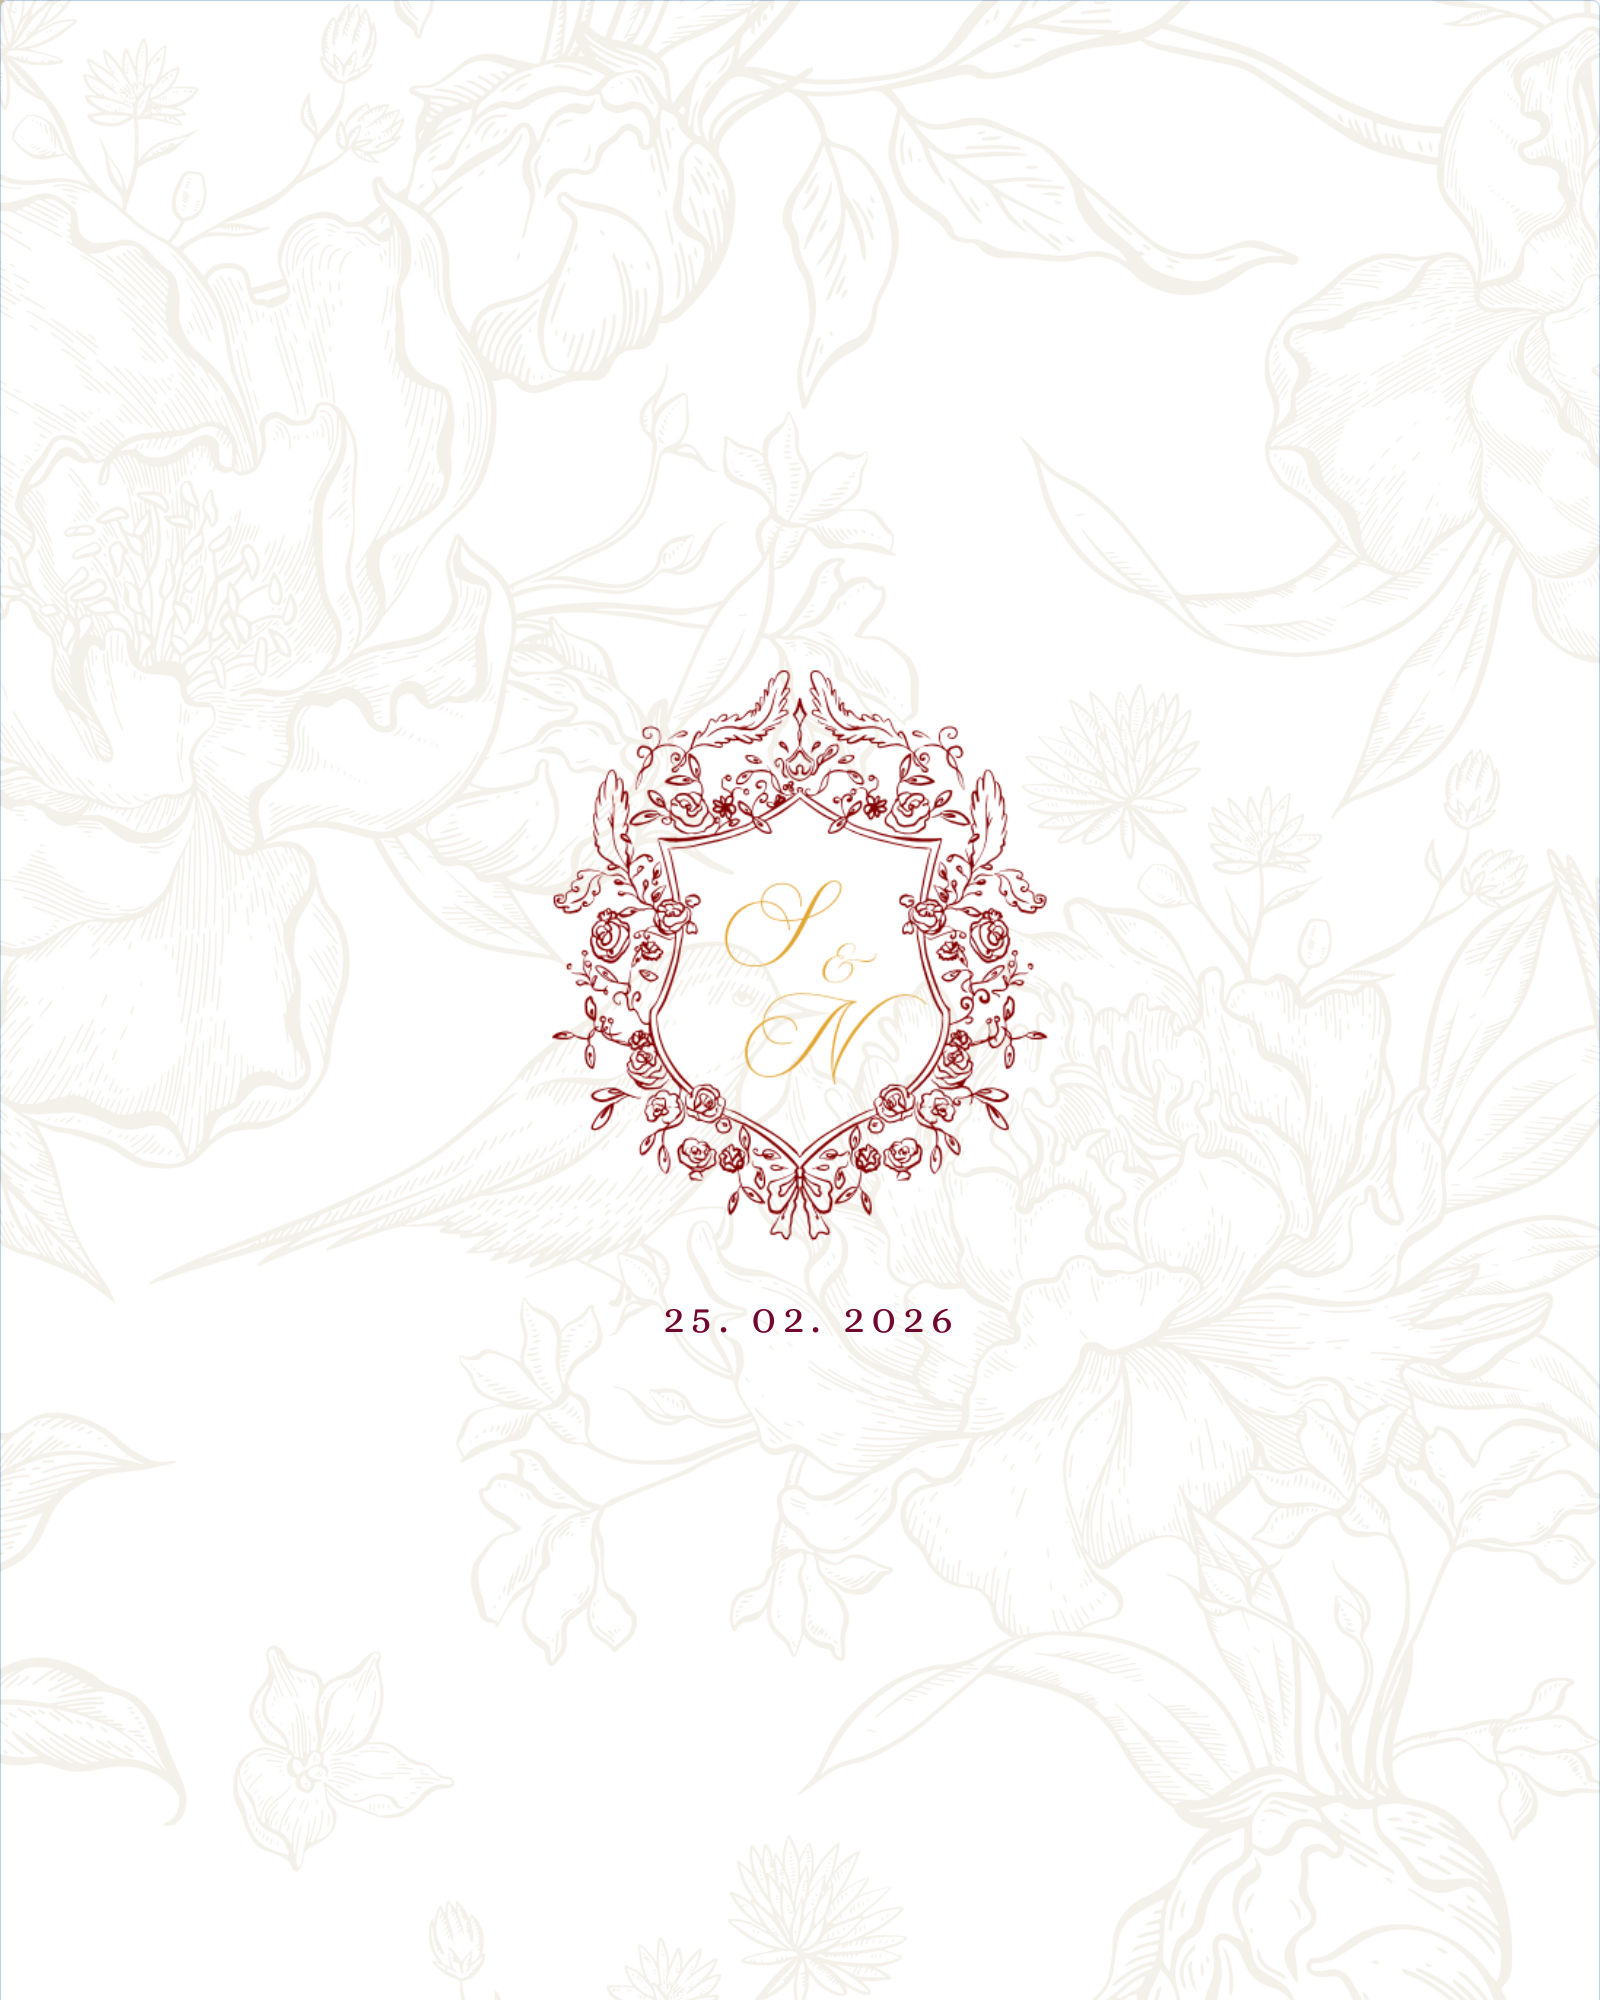
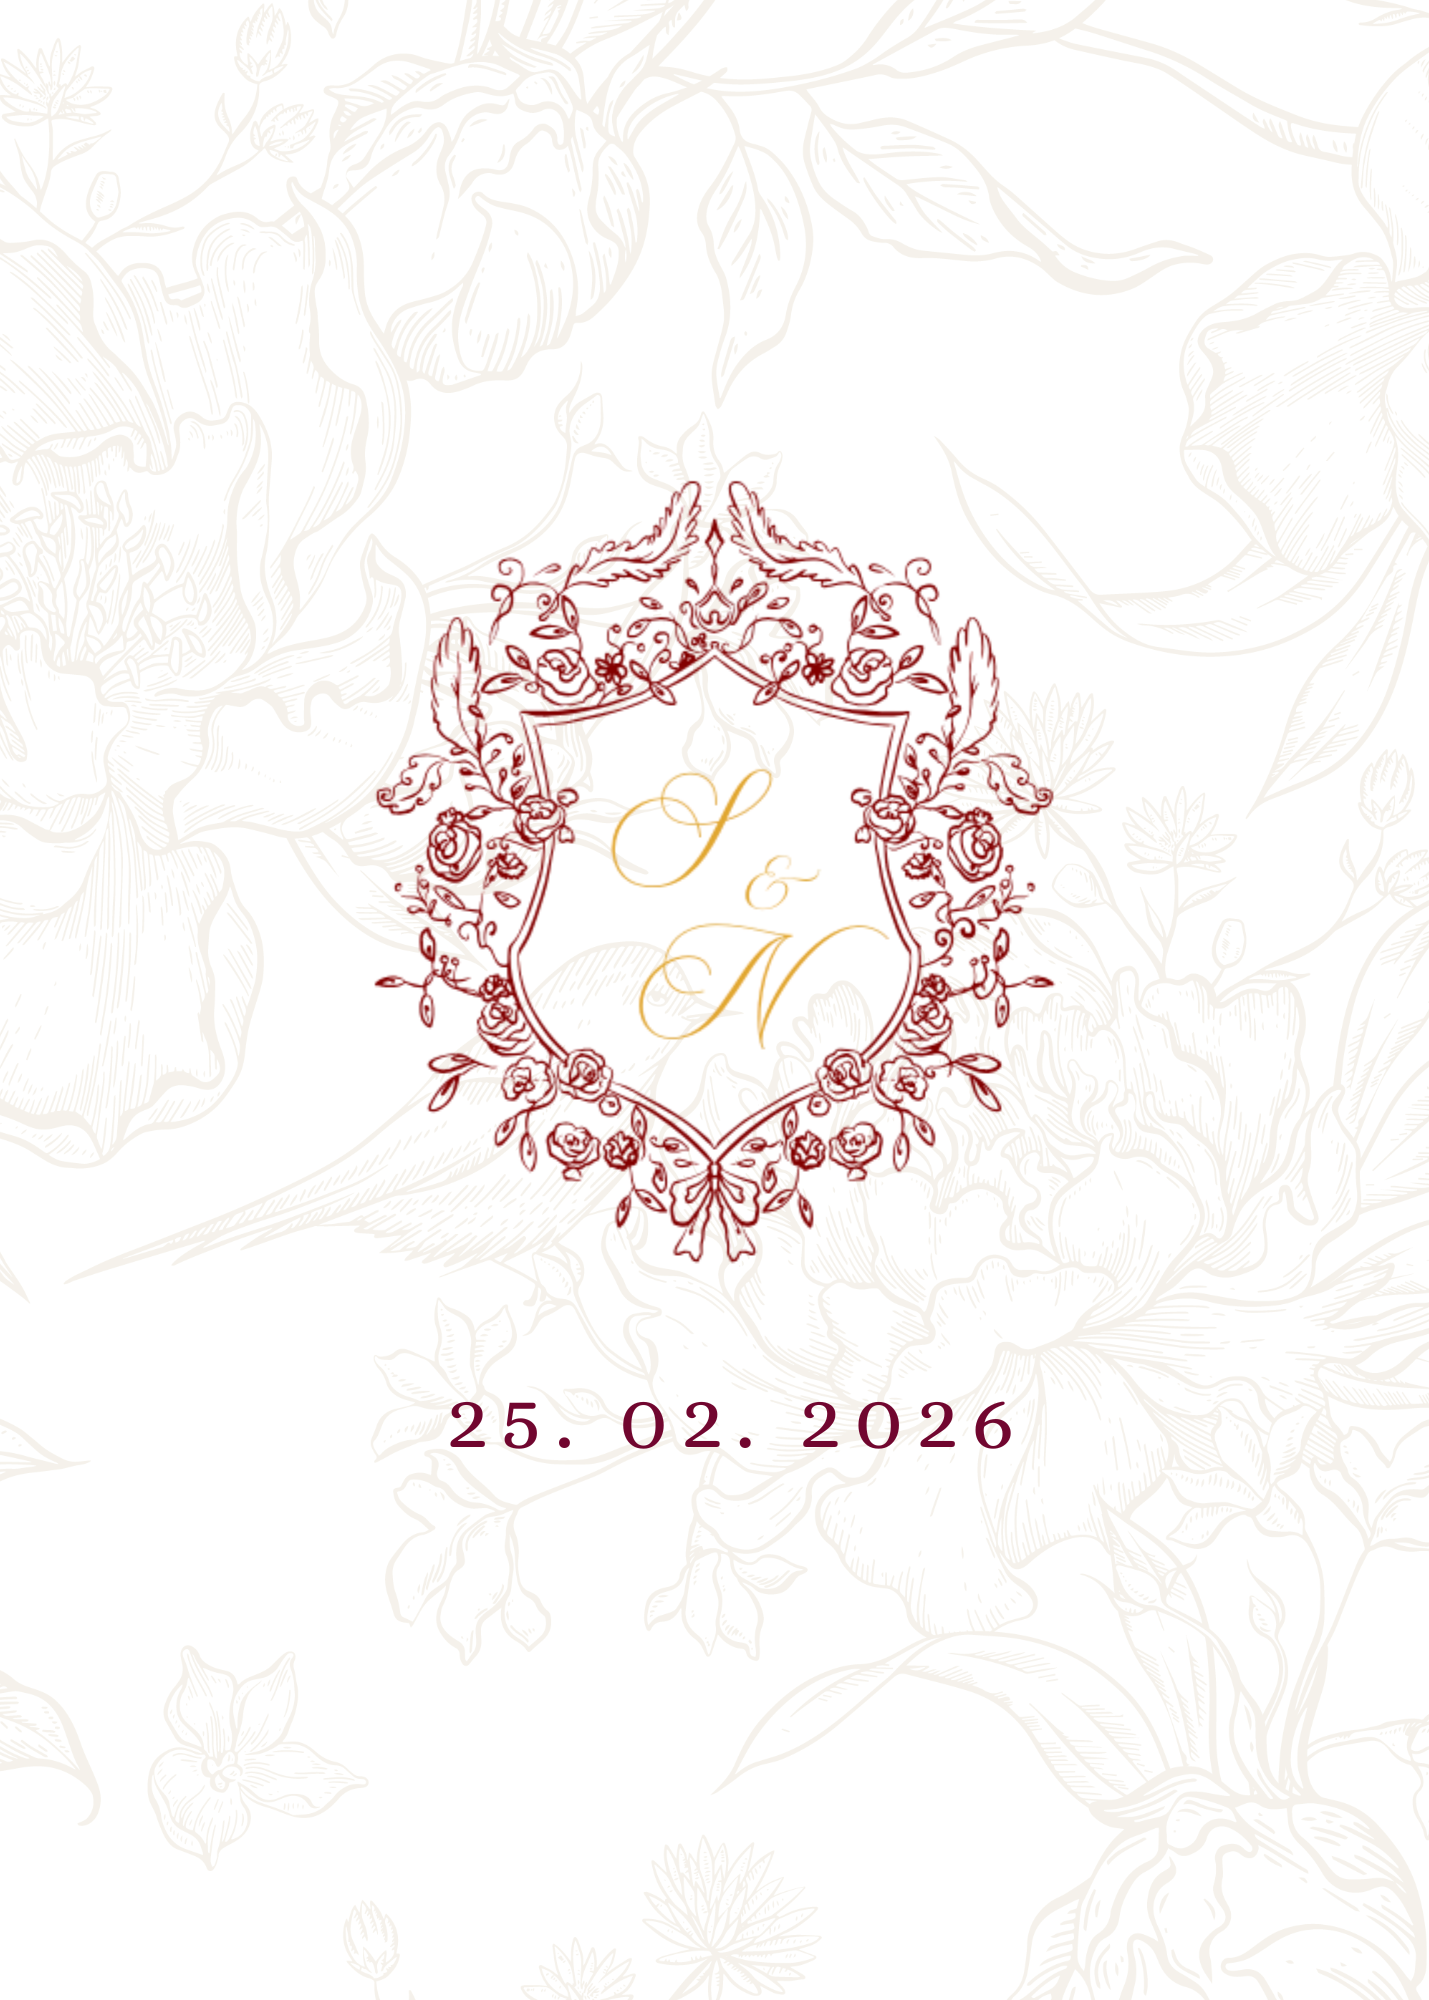
responsive

diff --git a/style.css b/style.css
@@ -8,7 +8,8 @@ html, body {
     margin: 0;
     padding: 0;
     width: 100%;
-    height: 100%;
+    height: 100vh;
+    height: 100dvh;
     overflow: hidden;
     background: white;
 }
@@ -16,6 +17,7 @@ html, body {
 .first-page {
     width: 100%;
     height: 100vh;
+    height: 100dvh;
     position: fixed;
     top: 0;
     left: 0;
@@ -29,6 +31,7 @@ html, body {
     max-width: 100%;
     height: auto;
     max-height: 100vh;
+    max-height: 100dvh;
     object-fit: contain;
     display: block;
 }
@@ -62,11 +65,17 @@ html, body {
 
 /* Responsive */
 @media (max-width: 768px) {
+    .first-page {
+        height: 100vh;
+        height: 100dvh;
+    }
+
     .first-page .fullscreen-image {
         width: 100%;
         max-width: 100%;
         height: auto;
         max-height: 100vh;
+        max-height: 100dvh;
         object-fit: contain;
     }
     
@@ -77,10 +86,16 @@ html, body {
 }
 
 @media (max-width: 480px) {
+    .first-page {
+        height: 100vh;
+        height: 100dvh;
+    }
+
     .first-page .fullscreen-image {
         width: 100%;
         max-width: 100%;
         height: auto;
         max-height: 100vh;
+        max-height: 100dvh;
     }
 }
